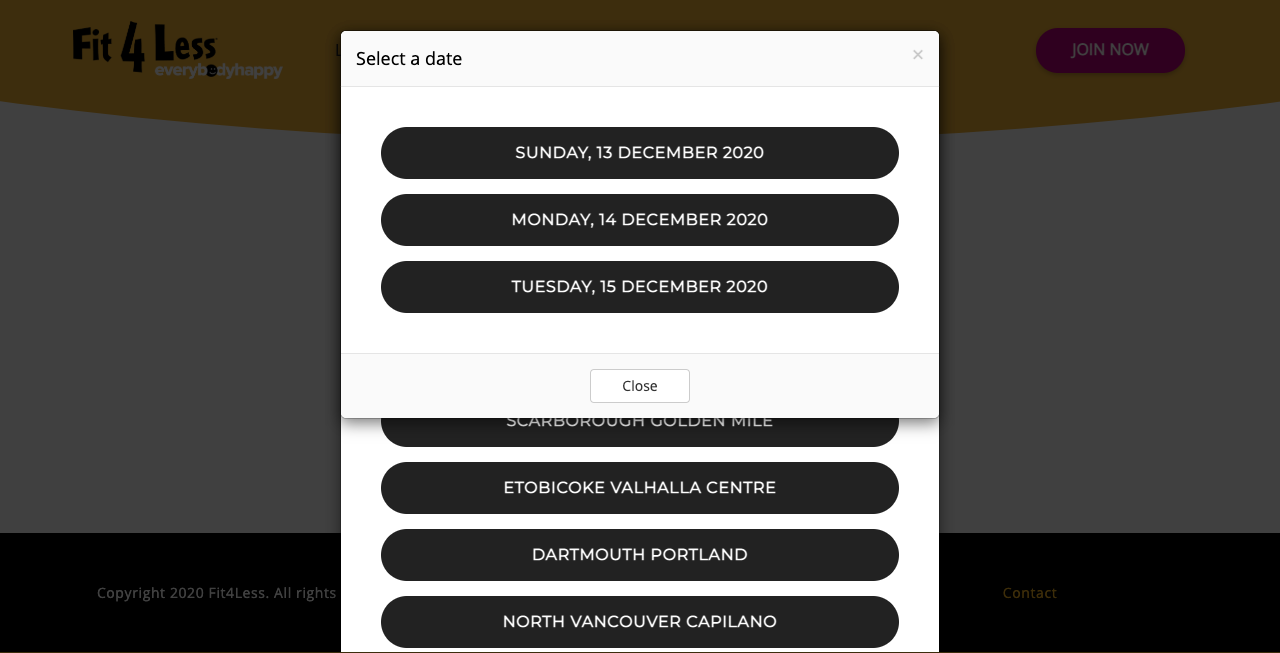
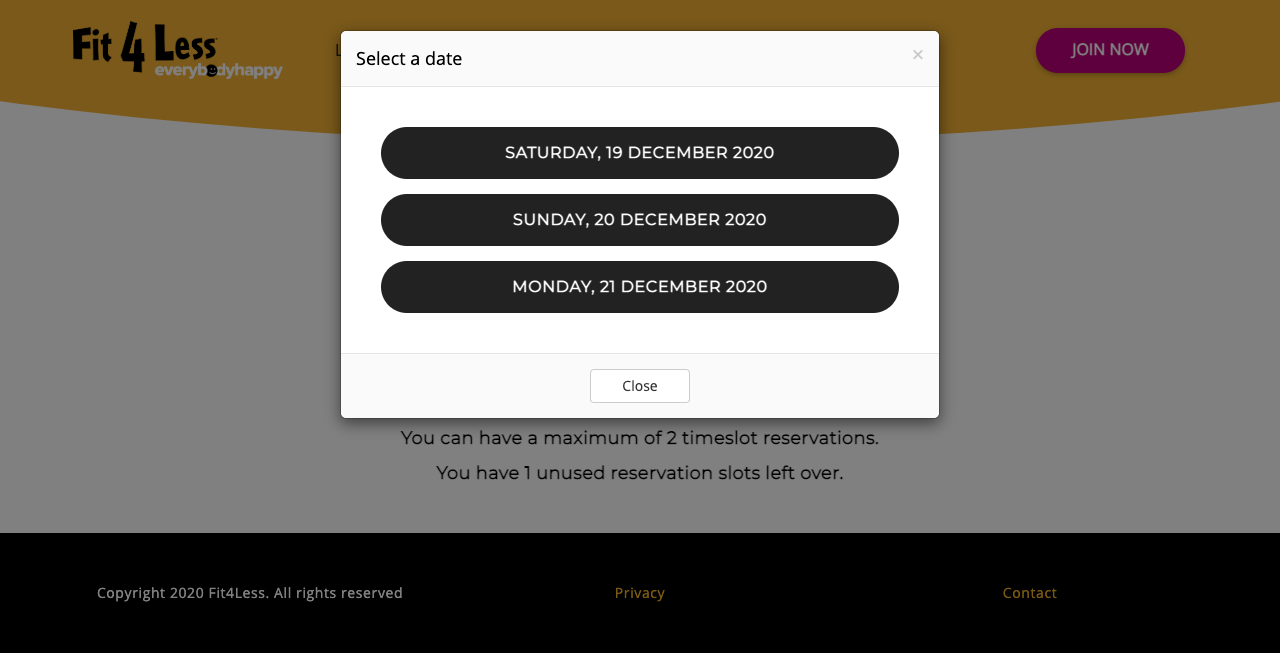
changes

diff --git a/src/crawler/crawler.service.ts b/src/crawler/crawler.service.ts
@@ -16,6 +16,7 @@ export class CrawlerService {
 
   public async start(): Promise<any> {
     try {
+      const selectedTime = '7:00 am';
       const browser = await puppeteer.launch({ headless: false });
       const page = await browser.newPage();
       const navigationPromise = page.waitForNavigation();
@@ -27,6 +28,7 @@ export class CrawlerService {
 
       await page.goto('https://myfit4less.gymmanager.com/portal/login.asp');
       await page.setViewport({ width: 1280, height: 653 });
+      await page.setDefaultNavigationTimeout(90000);
 
       await page.waitForSelector(emailInput);
       await page.type(emailInput, email);
@@ -46,82 +48,133 @@ export class CrawlerService {
         ),
       ]);
 
-      await page.click('.col-md-12 #btn_club_select');
-      await page.click(
-        '.modal-dialog #club_55346EEC-71F1-4A6E-BD17-5D4EA39E144B',
-      );
-
       await navigationPromise;
+      await this.delay(1500);
 
-      await page.evaluate(this.executeScript);
+      await page.waitForSelector('#doorPolicyForm .reserved-slots');
+      await page.evaluate(this.selectClub);
+
+      const bookings = await page.evaluate(this.getBookings);
+      if (bookings.length >= 2) await browser.close();
+
+      await this.delay(1500);
+      const availableDays: any = await page.evaluate(this.availableDays);
+
+      const jobs: Array<any> = [],
+        daysBooked: Array<string> = [];
+
+      for (const available of availableDays) {
+        let shouldBook = false;
+        const { availableDay, reference } = available;
+        if (bookings.length === 0) shouldBook = true;
+        for (const booking of bookings) {
+          const { date } = booking;
+          if (date === availableDay) continue;
+          else shouldBook = true;
+        }
+        if (shouldBook) jobs.push({ availableDay, reference });
+      }
+
+      if (jobs.length === 0) await browser.close();
+
+      let index = 0;
+      for (const job of jobs) {
+        const { availableDay, reference } = job;
+        daysBooked.push(availableDay);
+        await this.bookDays({
+          page,
+          reference,
+          selectedTime,
+          navigationPromise,
+          index,
+        });
+        index++;
+        await navigationPromise;
+      }
+
       await page.screenshot({ path: 'screenshot.png' });
-      // await browser.close();
+      await browser.close();
 
       return {
         msg: 'Fit4less session was sucessfully booked',
         status: 200,
+        daysBooked,
       };
     } catch (e) {
-      console.error(e);
+      console.log(e);
+      throw e;
     }
   }
 
-  private executeScript() {
-    const selectedTime = '7:00 am';
+  private async bookDays({
+    page,
+    reference,
+    selectedTime,
+    navigationPromise,
+    index,
+  }: any) {
+    await navigationPromise;
 
-    const bookings: any = (): Array<any> => {
-      const results = [];
-      const daysBooked = document.querySelectorAll(
-        '#doorPolicyForm .reserved-slots .time-slot .time-slot-box',
-      );
-      for (let i = 0; i < daysBooked.length; i++) {
-        const dayBooked: any = daysBooked[i];
-        const [club, date, time] = dayBooked.children;
+    if (index > 0) {
+      await this.delay(1000);
+      await page.waitForSelector('#btn_date_select');
+      await page.click('#btn_date_select');
+    }
+
+    await navigationPromise;
+
+    console.log(reference);
+    await this.delay(2000);
+    await page.waitForSelector(reference);
+    await page.click(reference);
+
+    console.log({ reference, selectedTime });
+  }
+
+  private getBookings(): Array<any> {
+    const results = [];
+    const daysBooked = document.querySelectorAll(
+      '#doorPolicyForm .reserved-slots .time-slot .time-slot-box',
+    );
+    for (let i = 0; i < daysBooked.length; i++) {
+      const dayBooked: any = daysBooked[i];
+      const [club, date, time] = dayBooked.children;
+      results.push({
+        club: club.innerText.toLowerCase(),
+        date: date.innerText.toLowerCase(),
+        time: time.innerText.toLowerCase(),
+      });
+    }
+    return results;
+  }
+
+  private selectClub() {
+    const button: any = document.querySelector('#btn_club_select');
+    button.click();
+    const club: any = document.querySelector(
+      '#club_55346EEC-71F1-4A6E-BD17-5D4EA39E144B',
+    );
+    club.click();
+  }
+
+  private availableDays(): Array<string> {
+    const results = [];
+    const selectDate: any = document.querySelector('#btn_date_select');
+    selectDate.click();
+    const availableDays: any = document.querySelectorAll(
+      '#modal_dates .modal-body .dialog-content .md-option',
+    );
+    for (let i = 0; i < availableDays.length; i++) {
+      const day = availableDays[i];
+      if (day && day.innerText) {
+        const idx = i + 1;
+        const availableDay: string = day.innerText.toLowerCase().trim();
         results.push({
-          club: club.innerText.toLowerCase(),
-          date: date.innerText.toLowerCase(),
-          time: time.innerText.toLowerCase(),
+          availableDay,
+          reference: `#modal_dates .modal-body .dialog-content .md-option:nth-child(${idx})`,
         });
       }
-      return results;
-    };
-
-    const selectClub = (callback: any) => {
-      const button: any = document.querySelector('#btn_club_select');
-      button.click();
-      const club: any = document.querySelector(
-        '#club_55346EEC-71F1-4A6E-BD17-5D4EA39E144B',
-      );
-      club.click();
-      callback(bookings);
-    };
-
-    const selectTime = (callback) => {
-      const selectDate: any = document.querySelector('#btn_date_select');
-      selectDate.click();
-      const avaialableDays: any = document.querySelectorAll(
-        '#modal_dates .modal-body .dialog-content .md-option',
-      );
-      const daysBooked: any = callback();
-      for (let i = avaialableDays.length - 1; i >= 0; i++) {
-        const avaialableDay: any = avaialableDays[i].innerText
-          .toLowerCase()
-          .trim();
-        for (const dayBooked of daysBooked) {
-          const { date, time } = dayBooked;
-          if (date === avaialableDay && time.includes(selectedTime)) {
-            continue;
-          } else {
-            avaialableDays[i].click();
-            const daysAvailable = document.querySelectorAll(
-              '.available-slots .time-slot-box',
-            );
-            alert(daysAvailable.length);
-          }
-        }
-      }
-    };
-
-    selectClub(selectTime);
+    }
+    return results;
   }
 }
